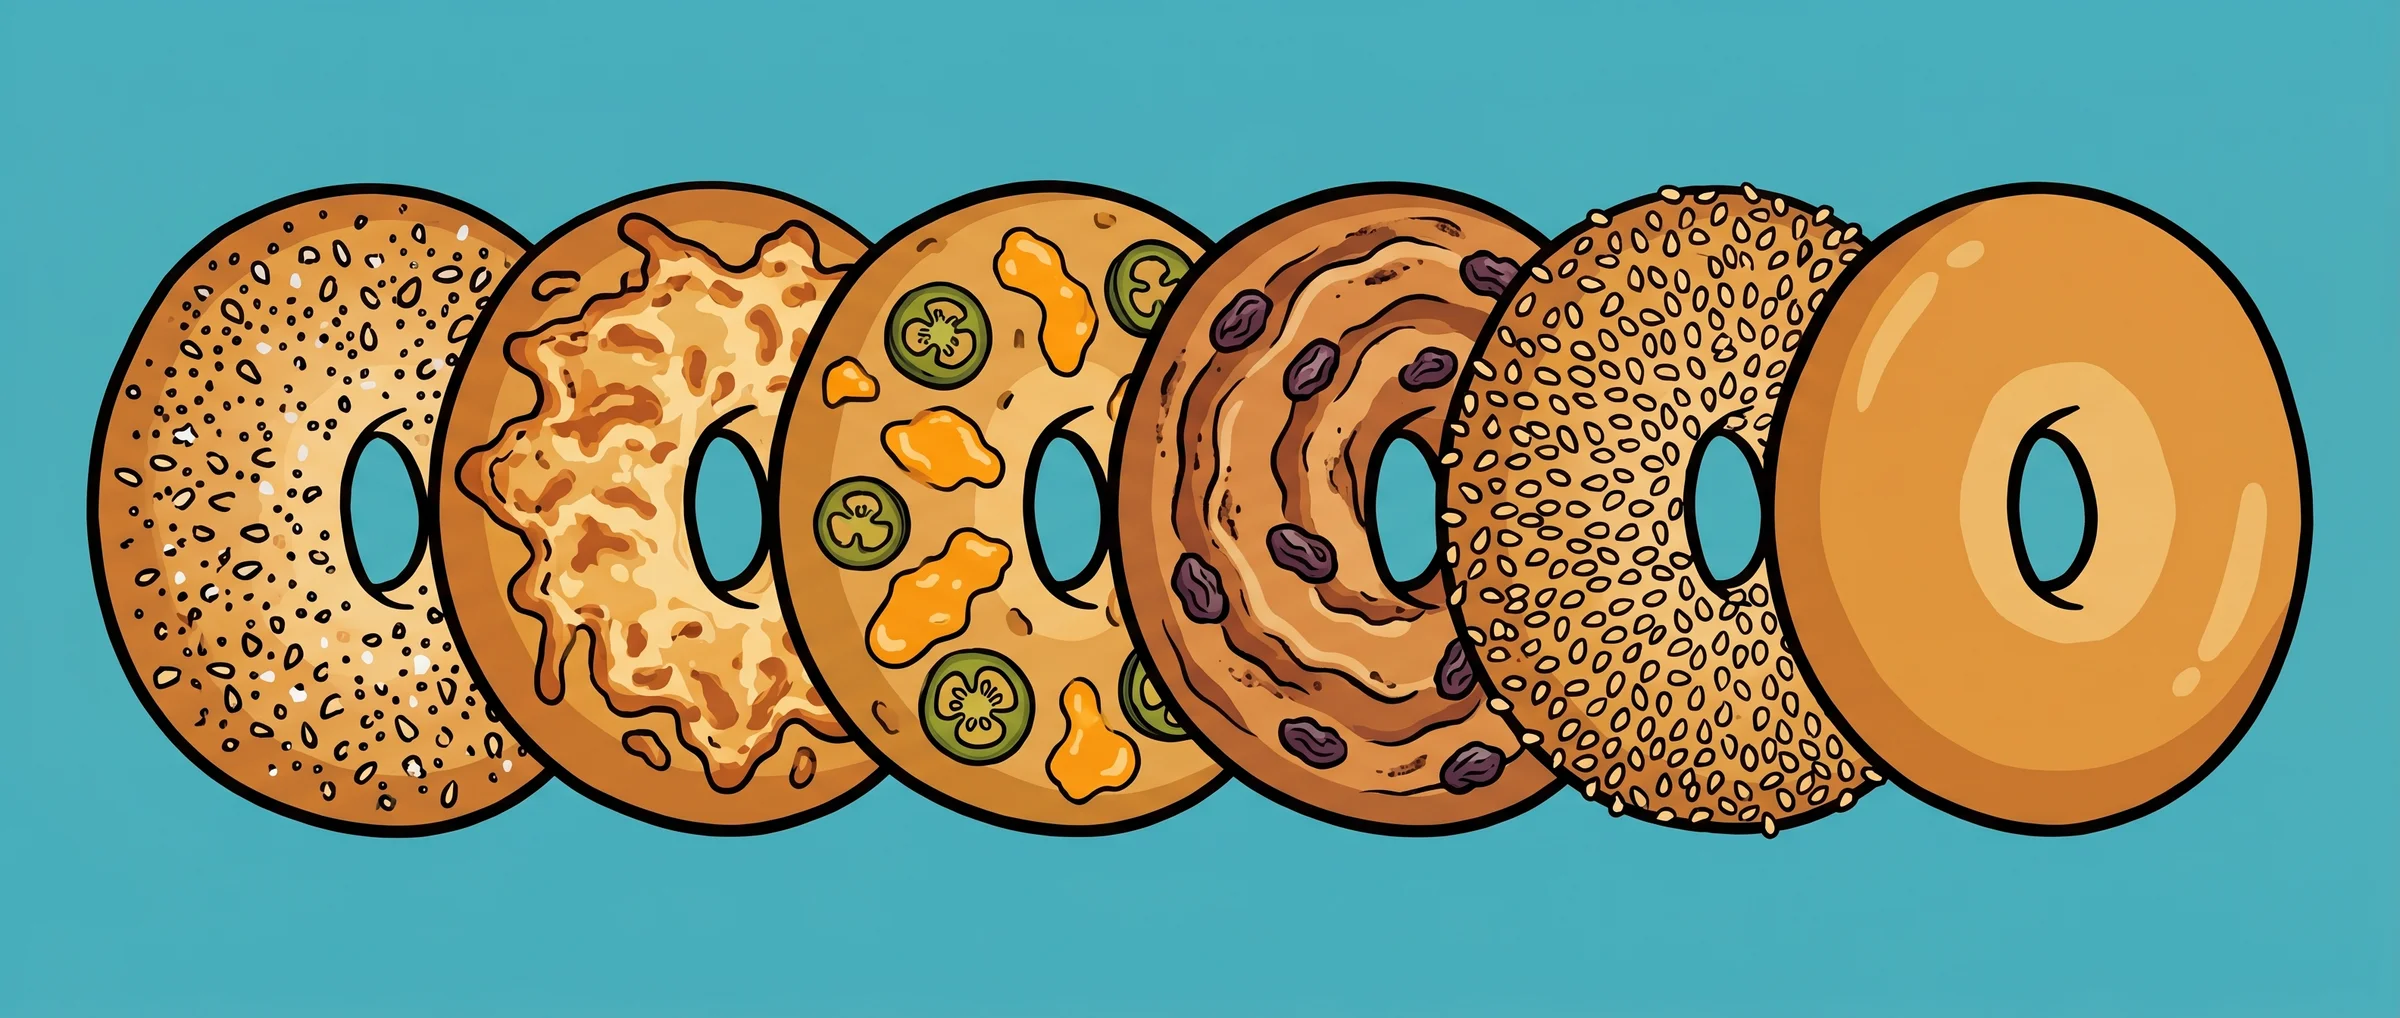
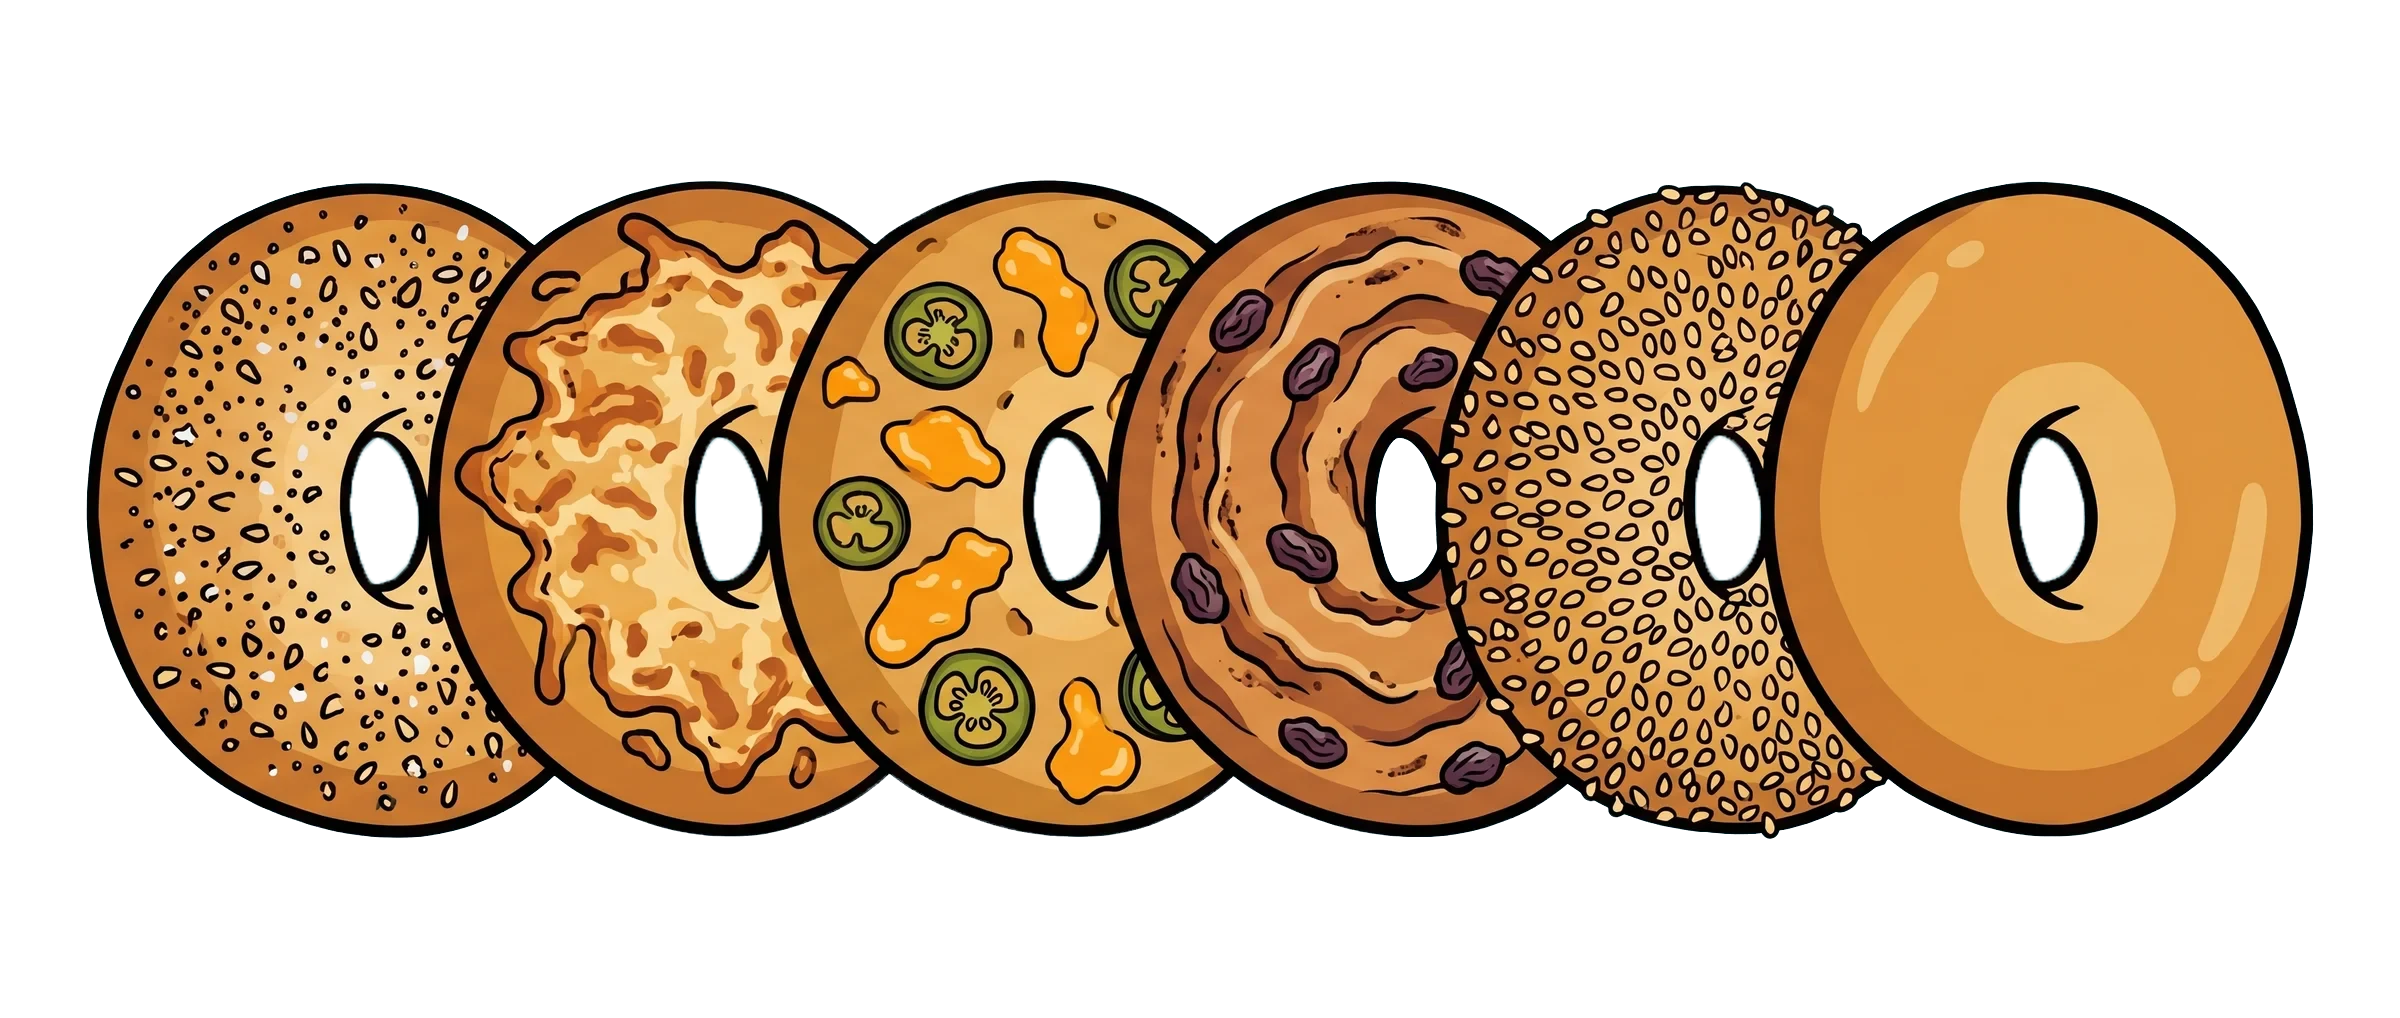
Bagels overlay hero bottom, ticker draws on top of their bottoms
User edited bagel-spacer to have a transparent background. New layout:

- New BagelOverlap component wraps the TickerStrip in a relative div
- Bagel image is absolutely positioned at the wrapper's top:0, translated
  up by 50% of its own height so its top half extends INTO the hero
- The transparent image background lets the hero's teal show through
  seamlessly — no visible seam between hero and bagels
- The wrapper's TickerStrip child has z-10 so it paints on top of the
  bagel image's bottom half (which has auto z-index = 0)
- The next section (story) naturally paints over whatever bagel pixels
  extend below the ticker (later in DOM = on top)

Visual: bagel TOPS poke up out of the hero's bottom; the dark ticker
bar covers the bottom halves; nothing of the bagels remains visible
below the ticker.

Hero pb reduced slightly (pb-[24vw] / 20vw / 18vw / 16vw) to match the
new overlap geometry.

Also converted user's bagel-spacer.png (1.9MB) to webp (263KB) with
alpha channel preserved.

diff --git a/src/pages/Home.tsx b/src/pages/Home.tsx
@@ -5,7 +5,7 @@ export default function Home() {
   return (
     <>
       <Hero />
-      <TickerStrip />
+      <BagelOverlap />
       <StorySection />
       <PillarsSection />
       <ArtsDistrictSection />
@@ -13,6 +13,34 @@ export default function Home() {
       <FindUsSection />
       <ClosingCTA />
     </>
+  )
+}
+
+/* ---------------------------------------------------------- */
+/* BAGEL OVERLAP                                              */
+/* ---------------------------------------------------------- */
+/**
+ * Wraps the TickerStrip in a relative container with the transparent bagel
+ * spacer absolutely positioned at the wrapper's top, translated up by half
+ * its own height. Result:
+ *   - Top half of bagels visually overlays the bottom of the hero (the
+ *     image's transparent background lets the hero's teal show through)
+ *   - Bottom half is hidden behind the ticker (and the section below),
+ *     achieved with z-index: ticker has z-10, bagel image has auto (= 0)
+ */
+function BagelOverlap() {
+  return (
+    <div className="relative">
+      <img
+        src={asset('photos/bagel-spacer.webp')}
+        alt=""
+        aria-hidden
+        className="absolute top-0 left-0 right-0 w-full -translate-y-1/2 pointer-events-none select-none"
+      />
+      <div className="relative z-10">
+        <TickerStrip />
+      </div>
+    </div>
   )
 }
 
@@ -33,9 +61,10 @@ function Hero() {
         className="hidden md:block absolute top-8 right-[-3rem] lg:right-[-1rem] w-56 lg:w-72 rotate-[12deg] drop-shadow-[6px_6px_0_var(--color-ink)] animate-[float-slow_7s_ease-in-out_infinite] pointer-events-none"
       />
 
-      {/* Hero text content — bottom padding is large enough to clear the
-          bagel band at the bottom of the hero on every breakpoint */}
-      <div className="relative max-w-7xl mx-auto px-6 pt-16 pb-[28vw] sm:pt-24 sm:pb-[24vw] md:pb-[22vw] lg:pb-[18vw]">
+      {/* Hero text content — bottom padding clears the area where the
+          BagelOverlap component will visually overlay (top half of bagels
+          extends up into the hero from below). */}
+      <div className="relative max-w-7xl mx-auto px-6 pt-16 pb-[24vw] sm:pt-24 sm:pb-[20vw] md:pb-[18vw] lg:pb-[16vw]">
         <div className="max-w-3xl">
           <span className="sticker bg-mustard text-ink border-ink mb-6">
             ⓘ 1006 Broadway · Fort Wayne, Indiana
@@ -65,23 +94,6 @@ function Hero() {
             </a>
           </div>
         </div>
-      </div>
-
-      {/* Bagels at the bottom of the hero, clipped to half their natural
-          height so only the TOP HALVES poke up. The ticker bar below the
-          hero visually "covers" the bottom halves — same teal background
-          flows continuously into the bagels (no seam line above). */}
-      <div
-        className="absolute bottom-0 left-0 right-0 overflow-hidden pointer-events-none"
-        style={{ height: 'clamp(72px, 21vw, 240px)' }}
-        aria-hidden
-      >
-        <img
-          src={asset('photos/bagel-spacer.webp')}
-          alt=""
-          className="block w-full"
-          loading="eager"
-        />
       </div>
     </section>
   )